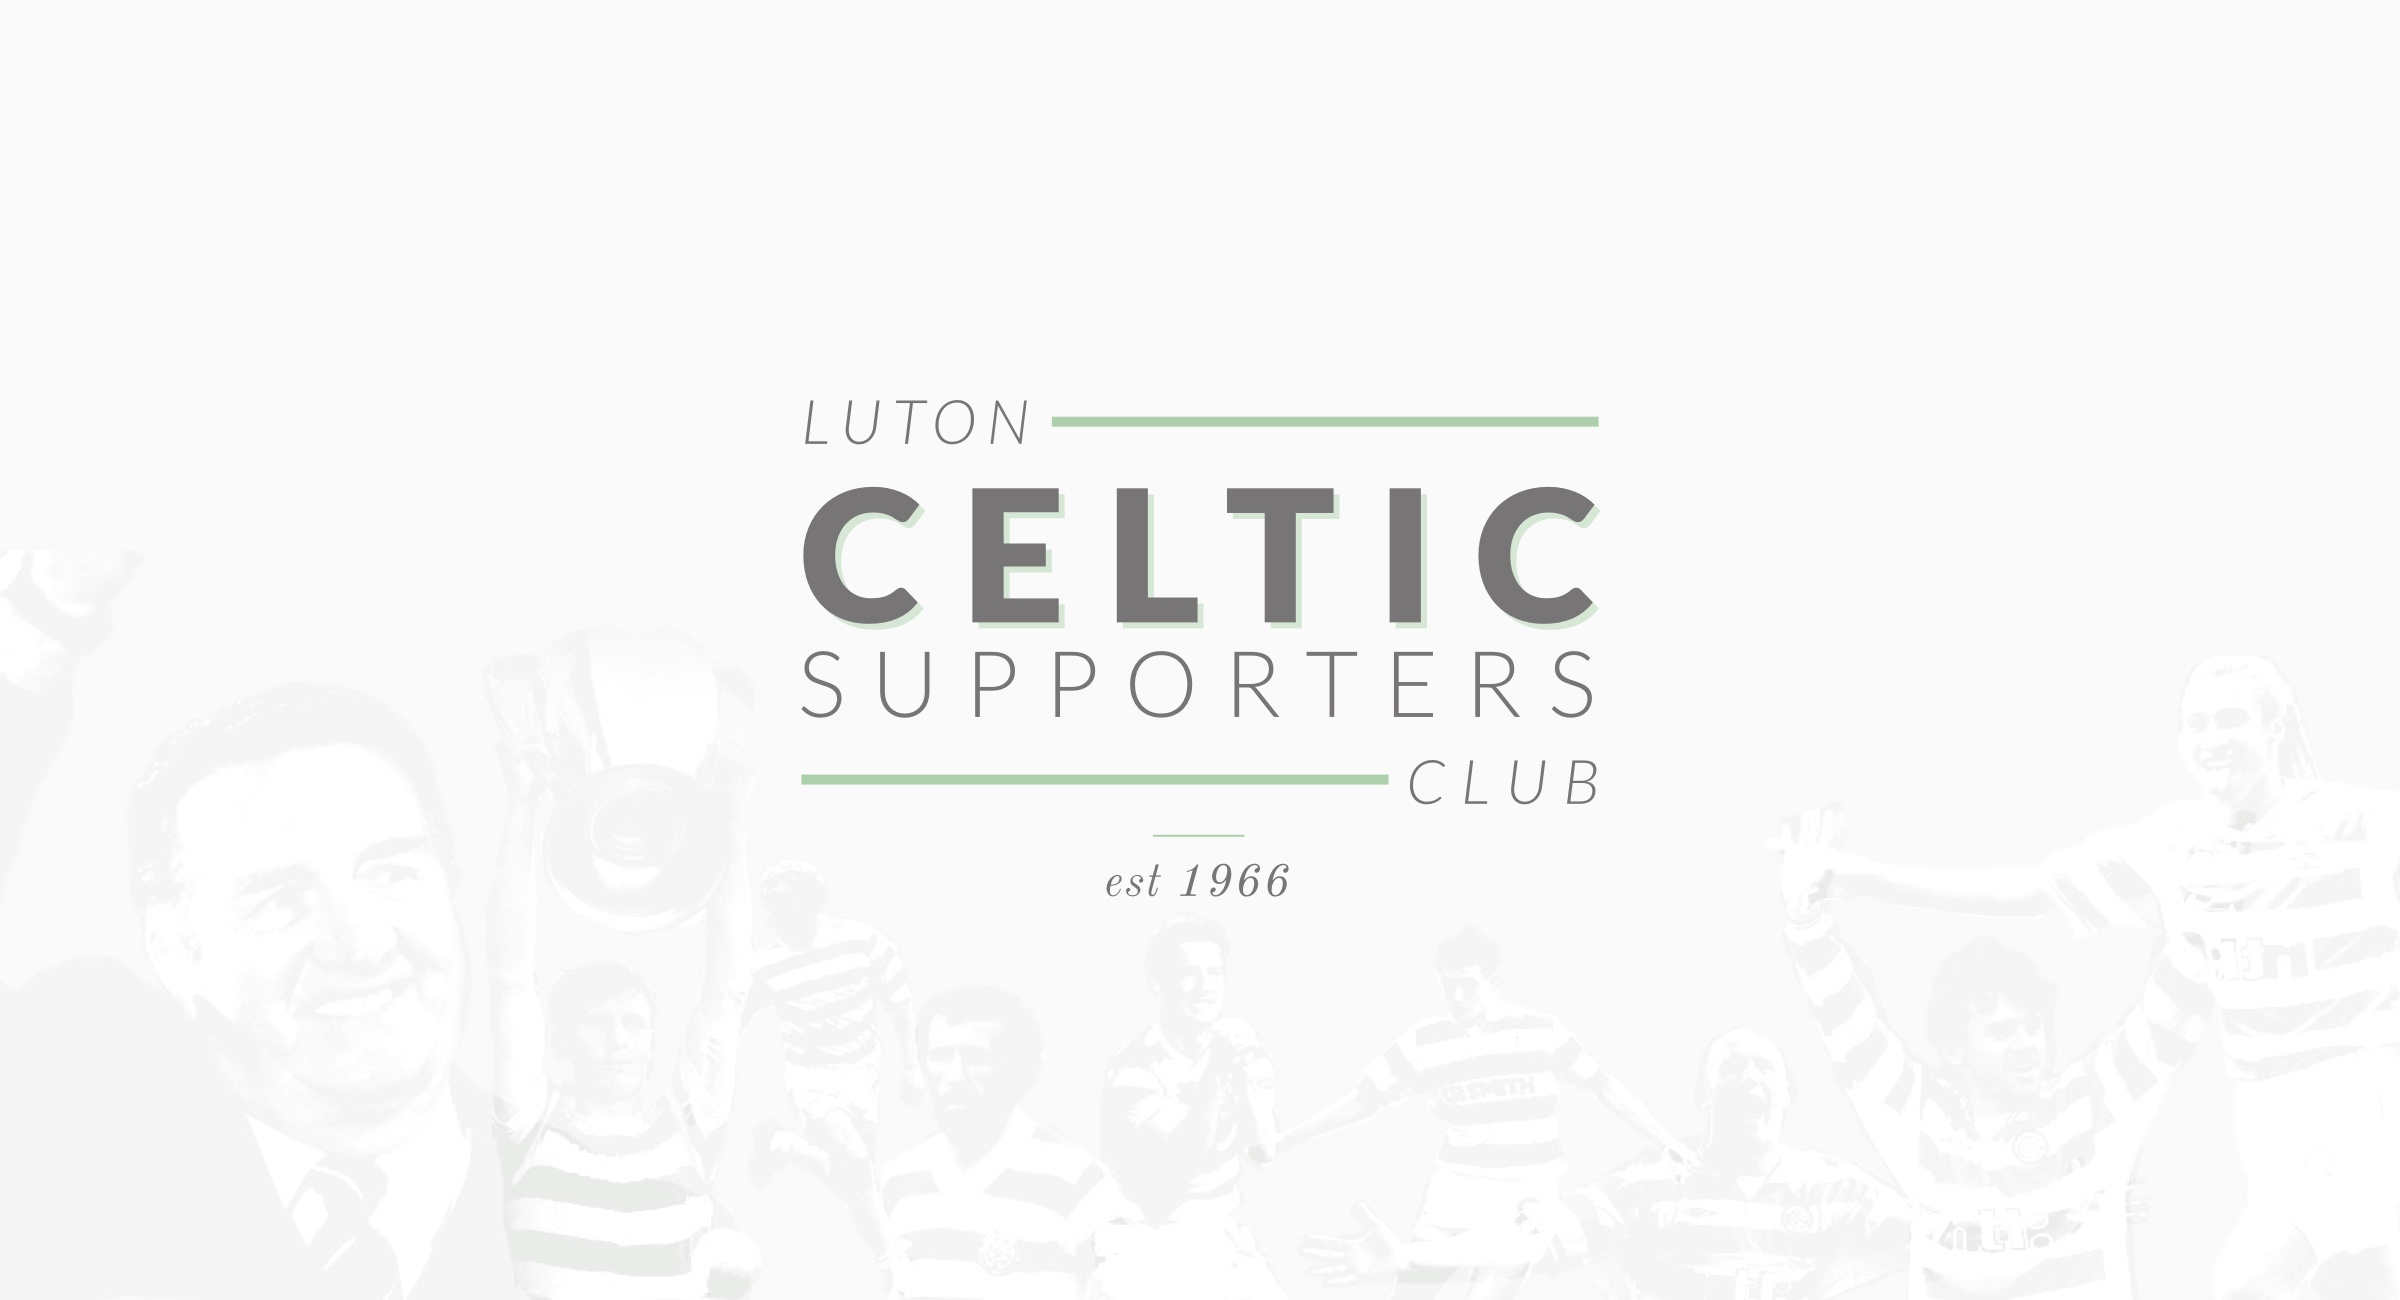
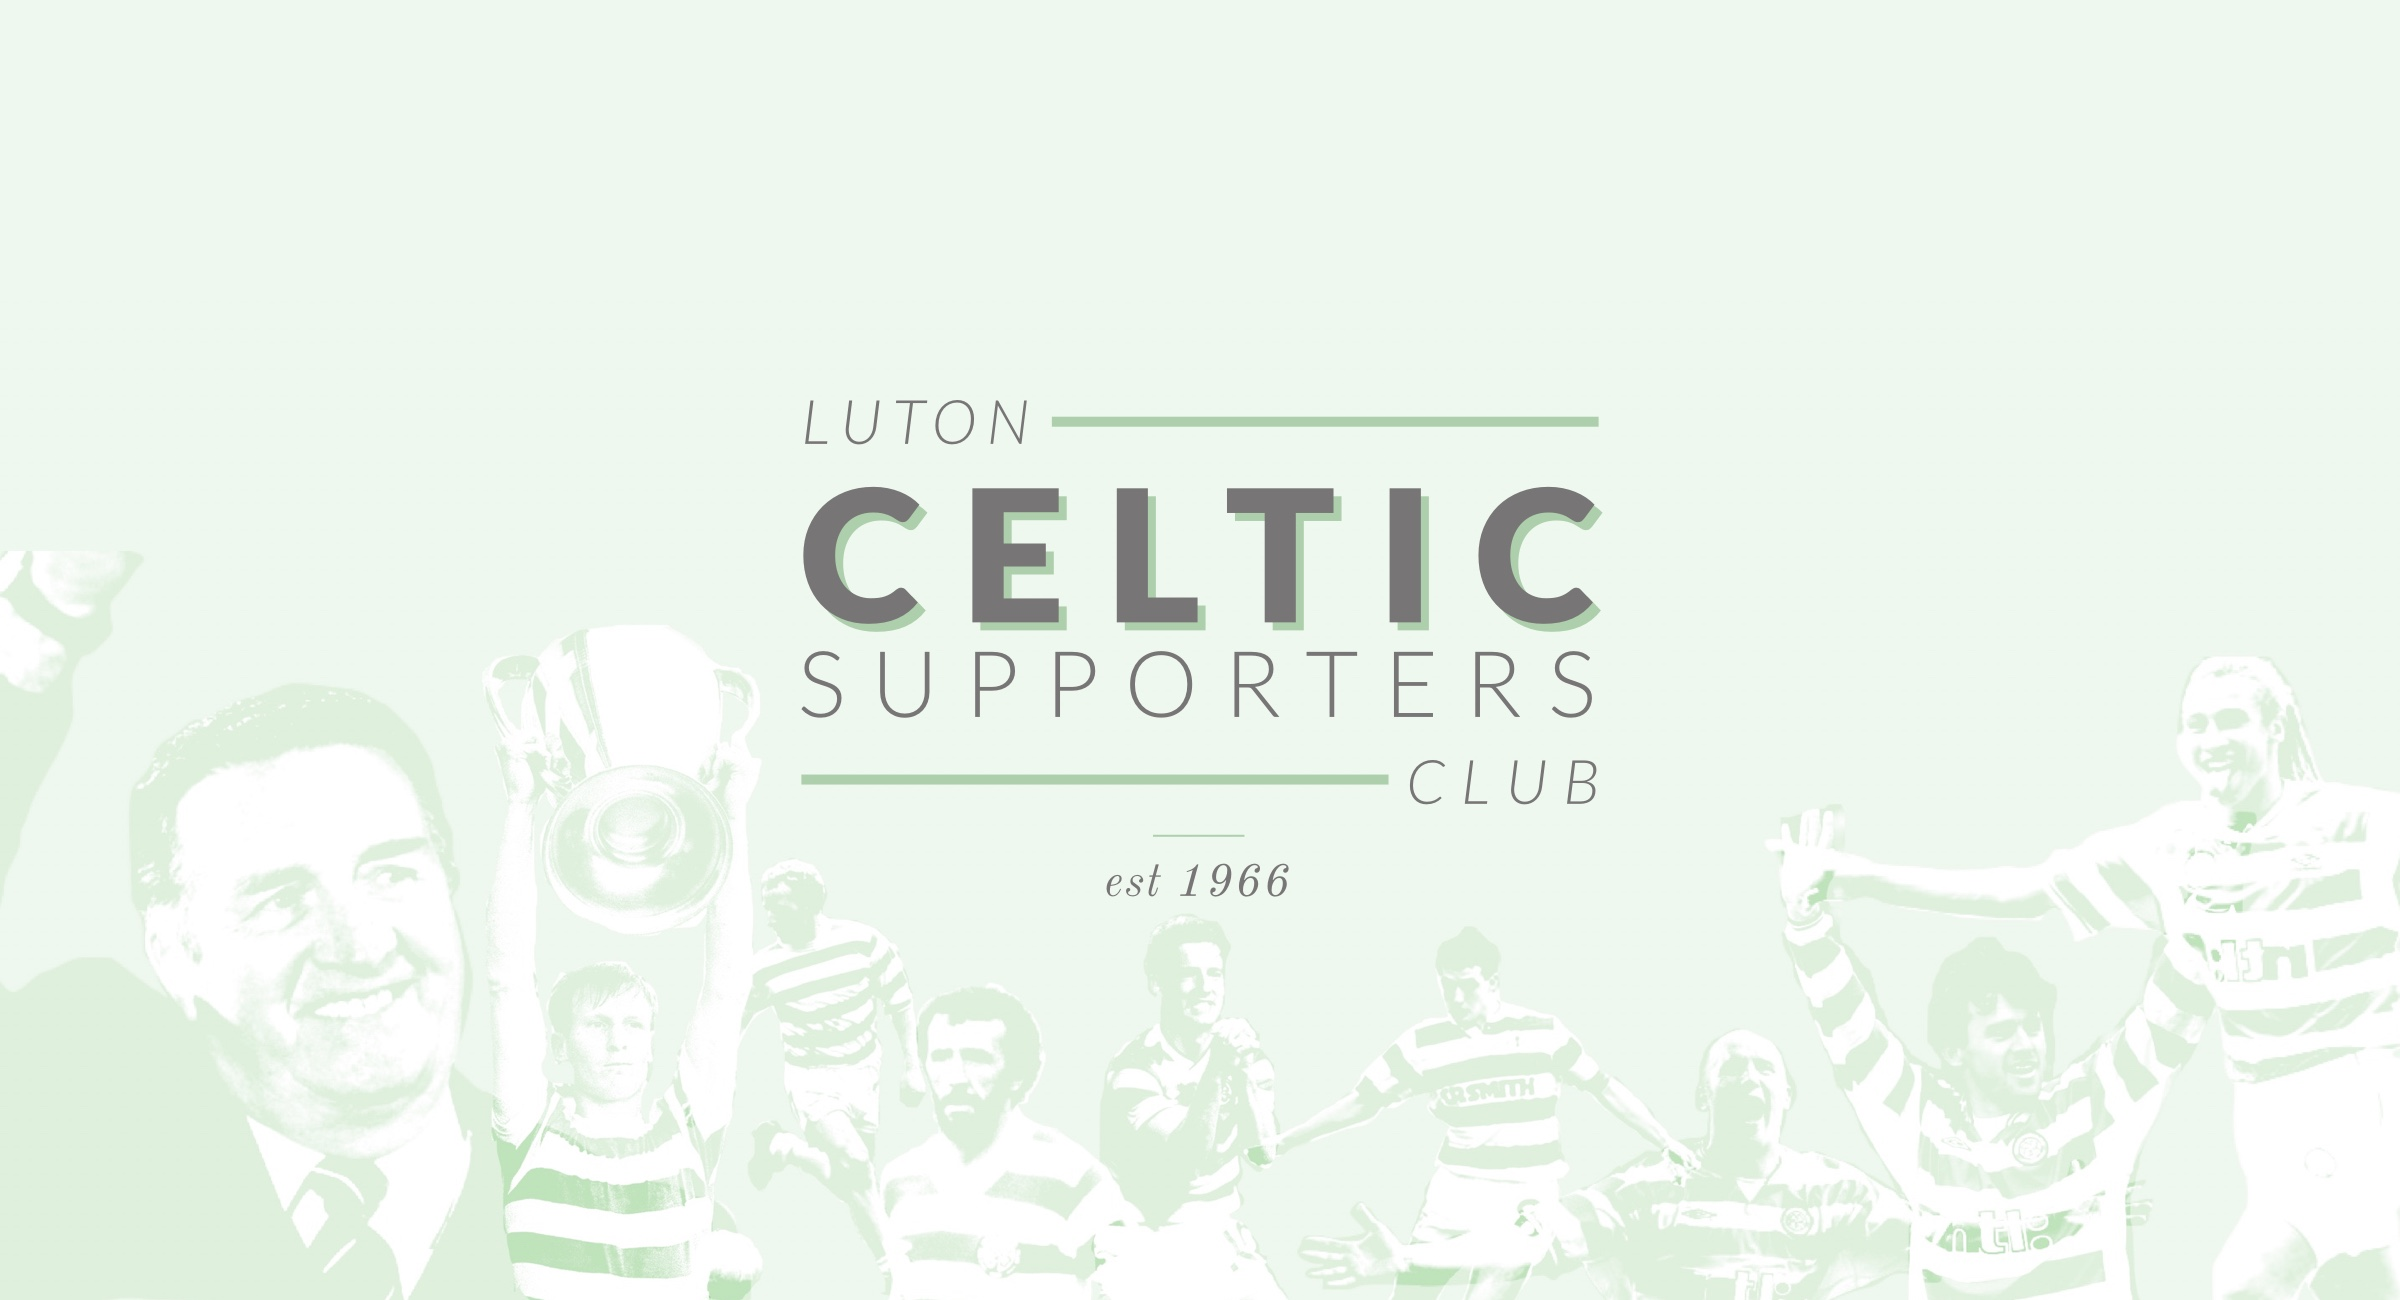
Update 2017-02-04T16:49:10.064Z

diff --git a/css/main.css b/css/main.css
@@ -1544,12 +1544,21 @@ footer::after {
 }
 
 .about-card {
-  background-color: #FBFBFB;
+  background-color: #EEF8EF;
 }
 
-.about-card img {
+.about-card .default-card__img {
+  position: absolute;
+  top: 50%;
+  left: 50%;
+  height: 100%;
   width: 200px;
-  opacity: .2;
+  opacity: .6;
+  -webkit-transform: translate(-50%, -50%);
+  -moz-transform: translate(-50%, -50%);
+  -ms-transform: translate(-50%, -50%);
+  -o-transform: translate(-50%, -50%);
+  transform: translate(-50%, -50%);
 }
 
 .about-card hr {
@@ -1571,7 +1580,7 @@ footer::after {
 
 .about-card .card__content-title {
   font-family: "Lato", sans-serif;
-  text-shadow: 3px 3px 0px #D6E8D6;
+  text-shadow: 3px 3px 0px #ADCFAB;
   margin-bottom: 0;
   quotes: "“" "”" "‘" "’";
   font-weight: 900;
